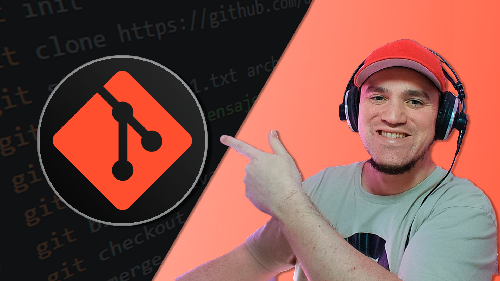
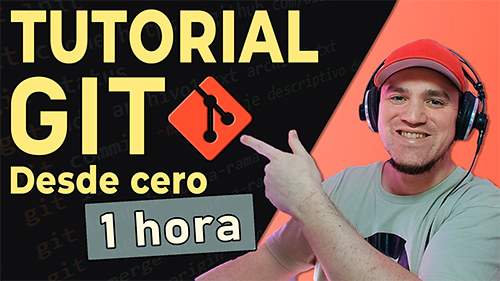
update courses links and thumbnails

diff --git a/src/scripts/courses.js b/src/scripts/courses.js
@@ -34,8 +34,8 @@ export const courses = [
     title: "Aprende a programar",
     desc: "Aprende a programar con JAVA, uno de los lenguajes más demandados del sector.",
     img: "./assets/curso-intro-java.png",
-    link: `https://www.udemy.com/course/programar-con-java/?referralCode=F9B28CCC7C04477E3555`,
-    linkText: "Ver en Udemy",
+    link: `https://youtu.be/-8yjO5K6_Jo`,
+    linkText: "Ver en YouTube",
     price: "Gratis",
     time: "2h"
   },
@@ -43,8 +43,8 @@ export const courses = [
     title: "Git desde cero",
     desc: "Aprende a usar Git y a integrarlo con GitHub de forma eficiente.",
     img: "./assets/curso-git.png",
-    link: "https://www.udemy.com/course/aprende-git-desde-cero/?referralCode=DE132C2DB6CB08FD8DA5",
-    linkText: "Ver en Udemy",
+    link: "https://youtu.be/0kp1Nc1G3G0",
+    linkText: "Ver en YouTube",
     price: "Gratis",
     time: "1h",
   },
